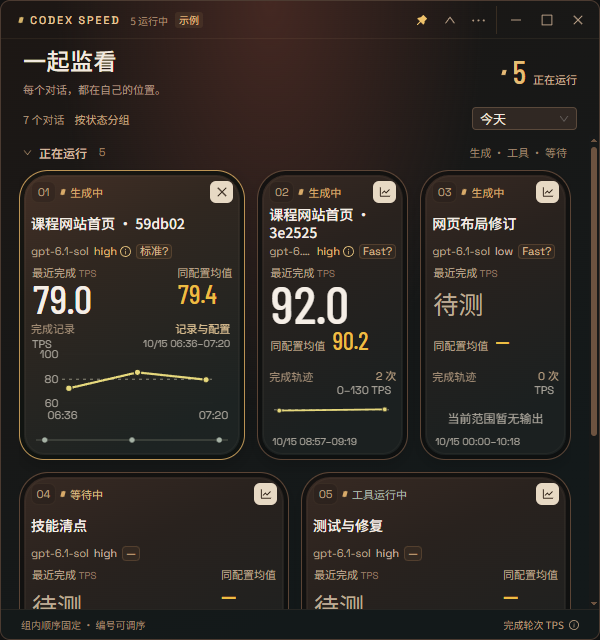
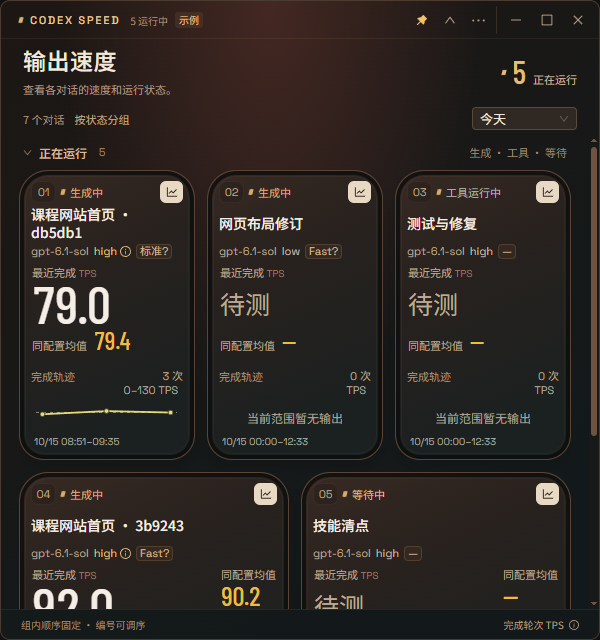
Clarify output speed heading and publish v0.1.2

diff --git a/src/App.tsx b/src/App.tsx
@@ -616,7 +616,7 @@ export default function App() {
         <span className="compact-caption">{rows.length} 个对话 · 展开后同时查看</span>
       </section>
       <section id="conversation-workspace" ref={workspace} className="workspace" aria-hidden={!expanded} inert={!expanded}>
-        <div className="monitor-heading"><div><h1>一起监看</h1><span>每个对话，都在自己的位置。</span></div><div className="monitor-active"><i/><b>{runningCount}</b><span>正在运行</span></div></div>
+        <div className="monitor-heading"><div><h1>输出速度</h1><span>查看各对话的速度和运行状态。</span></div><div className="monitor-active"><i/><b>{runningCount}</b><span>正在运行</span></div></div>
         <div className="overview-toolbar no-drag">
           <div className="overview-heading"><span>{rows.length} 个对话</span><span className="overview-view-label">{groupedView ? '按状态分组' : '固定顺序'}</span></div>
           <Tooltip title="均值按本机日期筛选；运行中的对话始终保留。" placement="bottomRight"><Select<Period> value={period} aria-label="统计时段" size="small" className="period-select" options={(Object.keys(periodLabels) as Period[]).map((value) => ({ value, label: periodLabels[value] }))} onChange={(value) => { captureReadingLayout(); setPeriod(value); setSelectedProfile(null); }} open={periodOpen} onOpenChange={setPeriodOpen} popupMatchSelectWidth={110} getPopupContainer={() => document.body} /></Tooltip>
